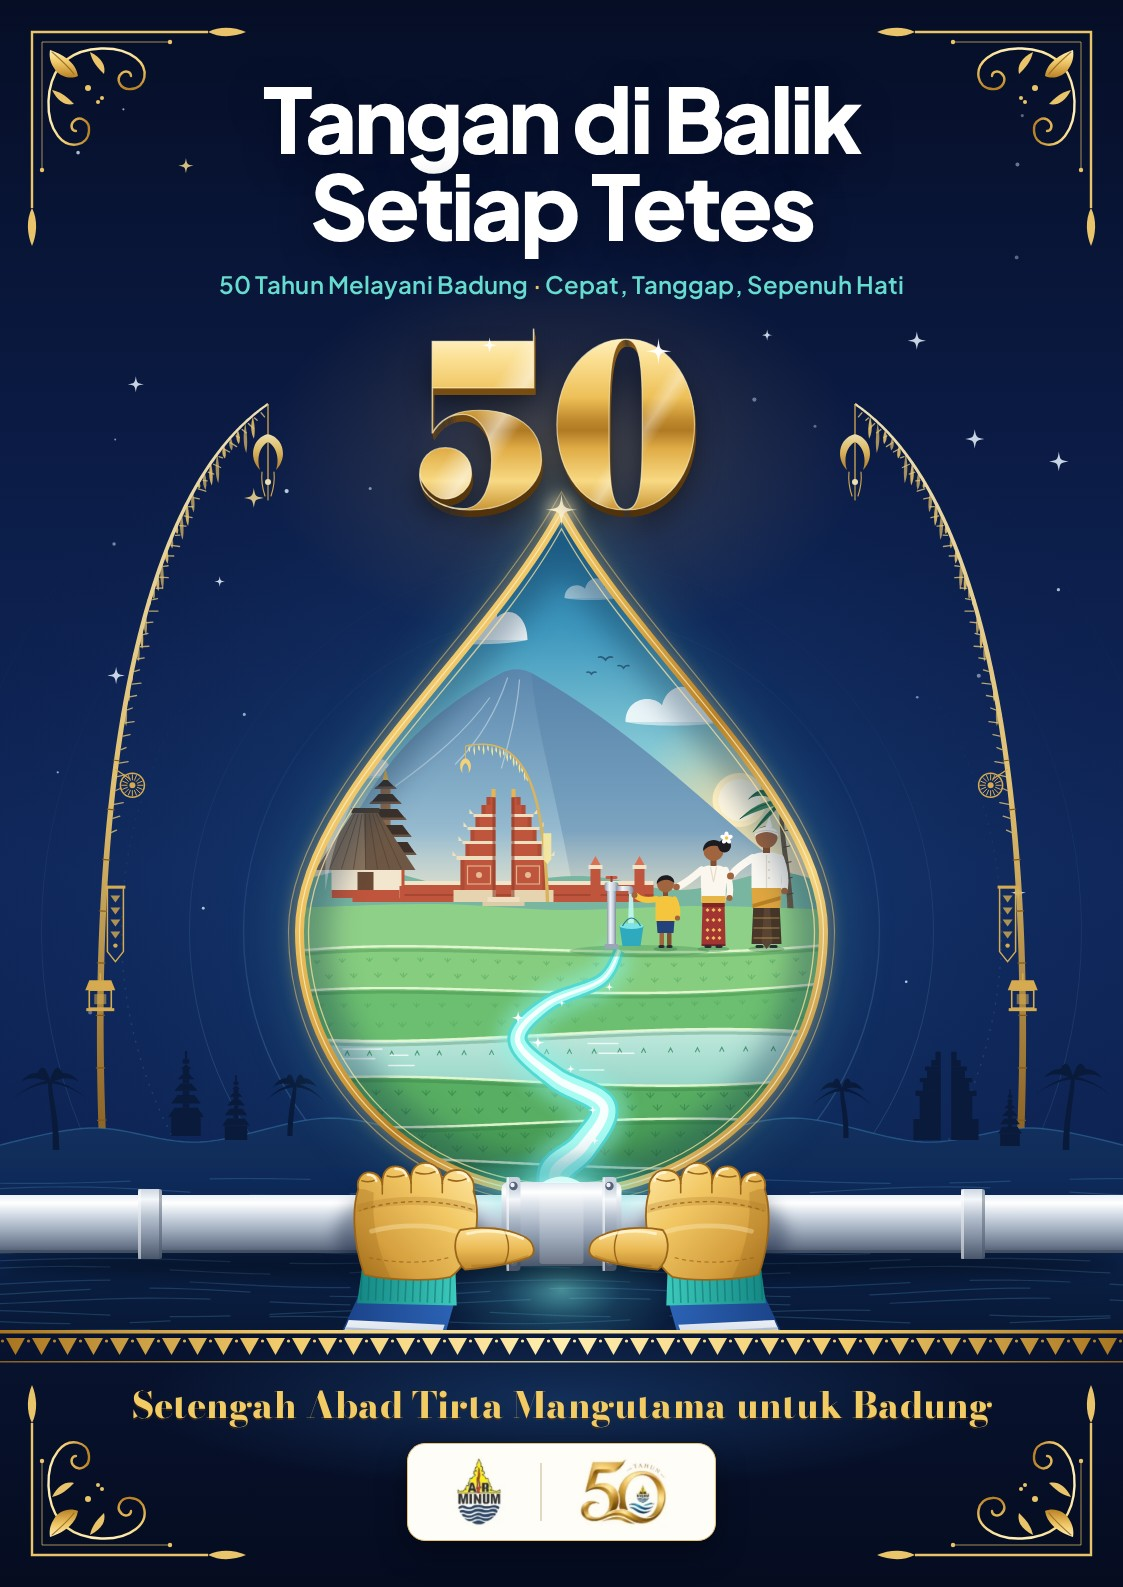
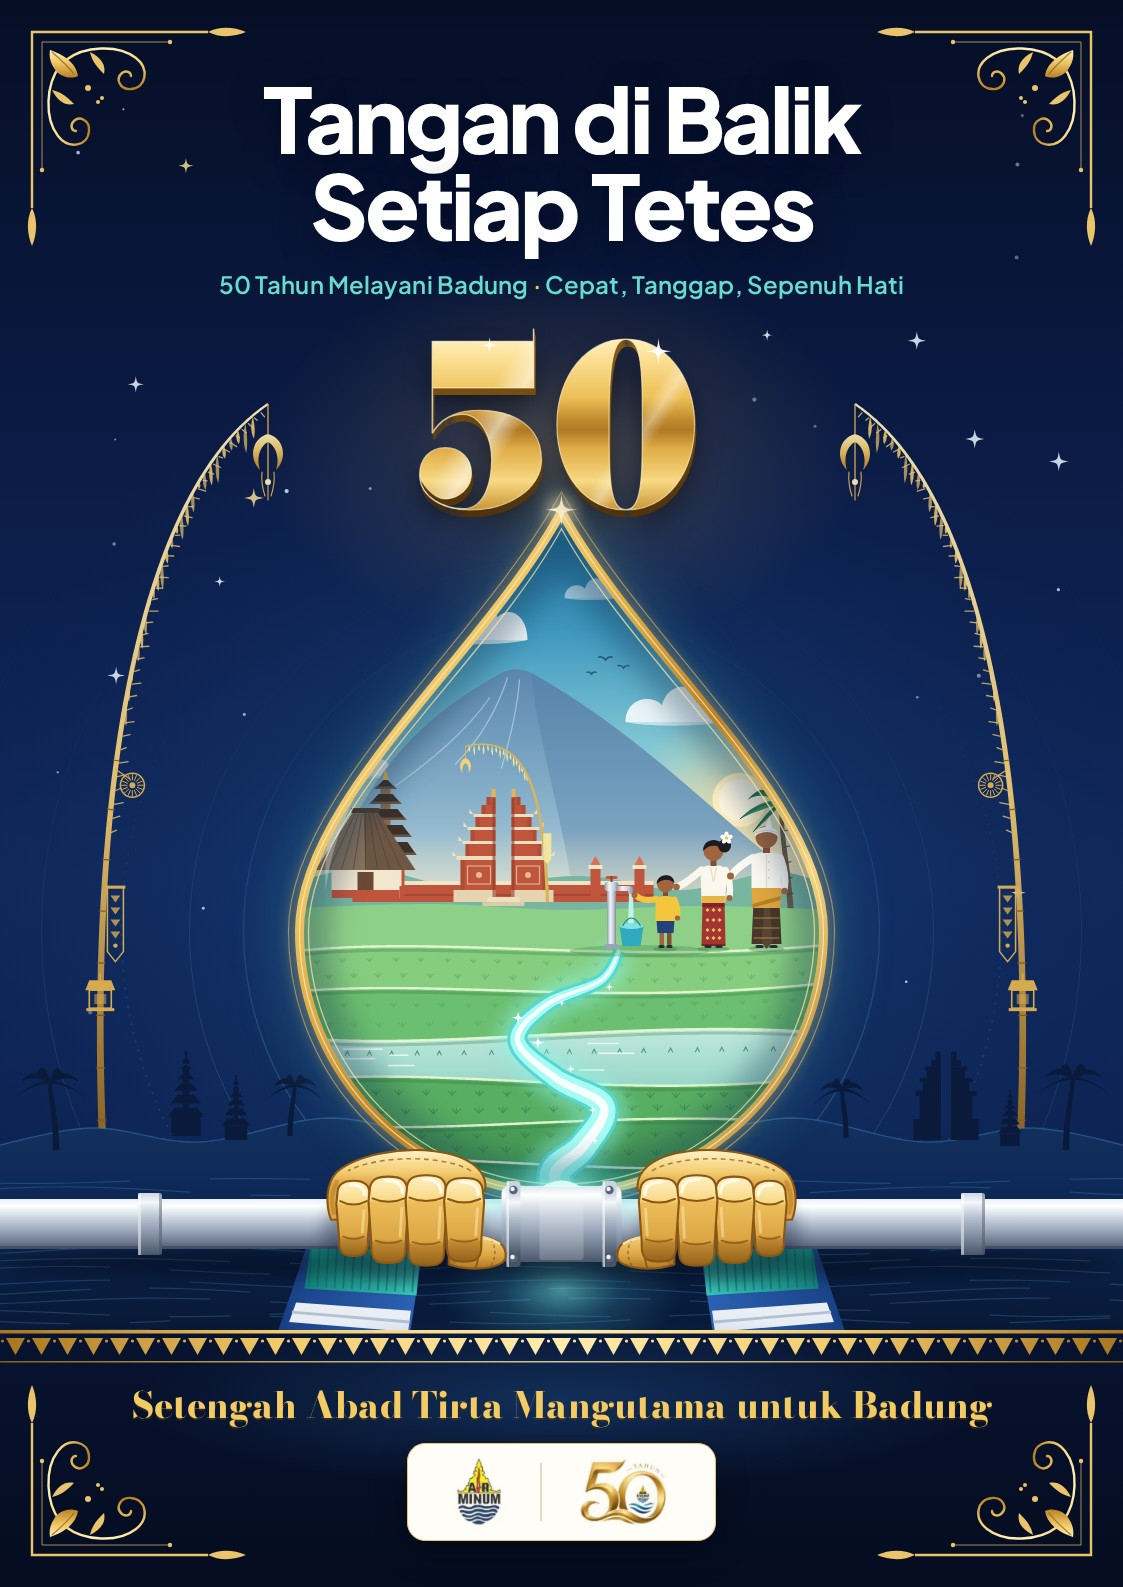
Redraw poster hands as fists gripping the pipe
Follow the grip references: knuckles on top, fingers wrapped over the
front of the pipe in three segments with curved joint lines, thumbs
tucked under toward the coupling, forearms dropping behind the pipe.
The pipe is a little thinner so the fists read at the right scale.

Claude-Session: https://claude.ai/code/session_01WRN3XAMEniDTP2xmXoDQVZ

Changed region(s): [[0.0, 0.7101, 1.0, 0.8645]]

diff --git a/poster-50-tahun/tools/build-art.js b/poster-50-tahun/tools/build-art.js
@@ -80,7 +80,7 @@ lg('gGoldRim', [[0, '#FFF1BE'], [0.3, '#EDC15D'], [0.55, '#B98126'], [0.75, '#F7
 const DROP = { cx: CX, R: 262, bottom: 1193, k: 1.6 };
 DROP.cy = DROP.bottom - DROP.R;          // 931
 DROP.tip = DROP.cy - DROP.k * DROP.R;     // ~512
-const PIPE = { y: 1224, r: 29 };
+const PIPE = { y: 1224, r: 25 };
 const BAND = 1330;
 
 function dropPath(cx, tipY, cy, R) {
@@ -613,8 +613,78 @@ add(`<circle cx="${DROP.cx}" cy="${DROP.tip - 2}" r="14" fill="#FFF1C4" opacity=
   OPT.fiftyBox = bb;
 }
 
+// ================================================================ HANDS
+// Pose after the user's grip references: a fist around the pipe seen from the front (knuckles on top, fingers wrapped
+// toward the viewer in three segments, joint lines following the curve of the fingers, thumb tucked under the pipe),
+// forearm dropping behind the pipe. Defined for the hand right of the coupling (thumb toward -x); the left is mirrored.
+const HAND = { hx: 152, hs: 1.4 };
+function handParts() {
+  const ink = '#8A5714';
+  // ---- forearm, cuff and sleeve (behind the pipe)
+  lg('gCuff', [[0, '#3CCABC'], [1, '#148683']], 0, 0, 1, 0);
+  lg('gSleeve', [[0, '#2C63B6'], [1, '#163A7C']], 0, 0, 1, 0);
+  let arm = `<path d="M-10,16 L72,12 L110,124 L8,132 Z" fill="url(#gSleeve)"/>`;
+  arm += `<path d="M-8,16 L70,12 L75,46 L-5,51 Z" fill="url(#gCuff)"/>`;
+  let ribs = '';
+  for (let i = 0; i <= 12; i++) { const x = lerp(-4, 70, i / 12); ribs += `<line x1="${n(x)}" y1="${n(17 - i * 0.3)}" x2="${n(x + 2)}" y2="${n(49 - i * 0.35)}"/>`; }
+  arm += `<g stroke="#0F6F6B" stroke-width="1.3" opacity="0.55">${ribs}</g>`;
+  arm += `<path d="M-1,62 L81,56 L86,70 L1,77 Z" fill="#E9EEF5"/><path d="M0,70 L84,63" stroke="#B3C1D3" stroke-width="2"/>`;
+
+  // ---- fist (in front of the pipe). In local units the pipe edges sit at ±PR.
+  const PR = PIPE.r / HAND.hs;
+  const f = [];
+  defs.push(`<linearGradient id="gDome" gradientUnits="userSpaceOnUse" x1="0" y1="-52" x2="0" y2="-28"><stop offset="0" stop-color="#FFF0C2"/><stop offset="0.6" stop-color="#F4CE74"/><stop offset="1" stop-color="#DDA544"/></linearGradient>`);
+  defs.push(`<linearGradient id="gThumbF" gradientUnits="userSpaceOnUse" x1="0" y1="${n(PR - 10)}" x2="0" y2="${n(PR + 16)}"><stop offset="0" stop-color="#F7D47E"/><stop offset="0.55" stop-color="#DDA544"/><stop offset="1" stop-color="#A56E1E"/></linearGradient>`);
+  // back of the hand, foreshortened behind the knuckles; its outer edge drops toward the forearm
+  f.push(`<path d="M-54,-24 C-56,-37 -44,-49 -18,-52 C8,-55 38,-49 52,-37 C60,-29 60,-13 56,-3 L44,-3 Z" fill="url(#gDome)" stroke="${ink}" stroke-width="1.5" stroke-linejoin="round"/>`);
+  f.push(`<path d="M-44,-38 C-26,-49 20,-50 44,-38" fill="none" stroke="${ink}" stroke-width="1.1" stroke-dasharray="3.5 2.8" opacity="0.7"/>`);
+  f.push(`<path d="M52,-30 C56,-22 56,-14 54,-8" fill="none" stroke="#9C6718" stroke-width="3" stroke-linecap="round" opacity="0.35"/>`);
+  // thumb tucked under the pipe; its tip shows below the index finger, pointing at the coupling
+  const ty = PR;
+  f.push(`<path d="M-28,${n(ty - 8)} C-40,${n(ty - 11)} -53,${n(ty - 10)} -62,${n(ty - 6)} C-70,${n(ty - 2)} -71,${n(ty + 8)} -64,${n(ty + 11)} C-55,${n(ty + 15)} -40,${n(ty + 15)} -28,${n(ty + 11)} Z" fill="url(#gThumbF)" stroke="${ink}" stroke-width="1.5" stroke-linejoin="round"/>`);
+  f.push(`<path d="M-30,${n(ty - 7)} C-34,${n(ty - 2)} -34,${n(ty + 6)} -30,${n(ty + 10)}" fill="none" stroke="#7A4C12" stroke-width="5" stroke-linecap="round" opacity="0.3"/>`);
+  f.push(`<path d="M-47,${n(ty - 10)} C-50,${n(ty - 4)} -50,${n(ty + 7)} -47,${n(ty + 14)}" fill="none" stroke="${ink}" stroke-width="1.2" stroke-linecap="round"/>`);
+  f.push(`<path d="M-58,${n(ty - 7)} C-62,${n(ty - 2)} -62,${n(ty + 7)} -58,${n(ty + 12)}" fill="none" stroke="${ink}" stroke-width="1" stroke-dasharray="2.4 2" opacity="0.7"/>`);
+  f.push(`<path d="M-34,${n(ty - 8)} C-45,${n(ty - 10)} -56,${n(ty - 9)} -64,${n(ty - 4)}" fill="none" stroke="#FFF1C4" stroke-width="2" stroke-linecap="round" opacity="0.8"/>`);
+  // fingers: top segment over the pipe, middle segment on its face, tip curling under
+  const fingers = [
+    // cx, width, knuckle top, PIP (top/front edge of the pipe), DIP, tip (tucked under the pipe)
+    [40, 23, -PR - 13, -PR + 3.5, PR - 8, PR + 5],   // pinky
+    [15, 27, -PR - 16, -PR + 1.5, PR - 5, PR + 10],  // ring
+    [-12, 28, -PR - 17, -PR + 1, PR - 4, PR + 12],   // middle
+    [-39, 27, -PR - 15, -PR + 2, PR - 6, PR + 9],    // index
+  ];
+  fingers.forEach(([cx, w, top, pip, dip, tip], i) => {
+    const id = 'gFg' + i;
+    const t = (y) => n((y - top) / (tip - top));
+    defs.push(`<linearGradient id="${id}" gradientUnits="userSpaceOnUse" x1="0" y1="${top}" x2="0" y2="${tip}">` +
+      `<stop offset="0" stop-color="#FFF1C6"/><stop offset="${t(pip - 1.5)}" stop-color="#F9DA8A"/>` +
+      `<stop offset="${t(pip + 1)}" stop-color="#EDBE5B"/><stop offset="${t(dip - 1.5)}" stop-color="#DCA544"/>` +
+      `<stop offset="${t(dip + 1)}" stop-color="#C08832"/><stop offset="1" stop-color="#94621A"/></linearGradient>`);
+    const hw = w / 2, tw = hw - 1.2, rt = hw * 0.8, rb = tw * 0.9;
+    // rounded-rectangle column, a touch wider at the PIP knuckle
+    const d = `M${n(cx - hw)},${n(top + rt)} C${n(cx - hw)},${n(top + 2)} ${n(cx - hw + 5)},${n(top)} ${n(cx)},${n(top)} C${n(cx + hw - 5)},${n(top)} ${n(cx + hw)},${n(top + 2)} ${n(cx + hw)},${n(top + rt)} ` +
+      `L${n(cx + hw + 0.8)},${n(pip)} L${n(cx + tw)},${n(dip)} L${n(cx + tw)},${n(tip - rb)} ` +
+      `C${n(cx + tw)},${n(tip - 1)} ${n(cx + tw - 5)},${n(tip)} ${n(cx)},${n(tip)} C${n(cx - tw + 5)},${n(tip)} ${n(cx - tw)},${n(tip - 1)} ${n(cx - tw)},${n(tip - rb)} ` +
+      `L${n(cx - tw)},${n(dip)} L${n(cx - hw - 0.8)},${n(pip)} Z`;
+    f.push(`<path d="${d}" fill="url(#${id})" stroke="${ink}" stroke-width="1.5" stroke-linejoin="round"/>`);
+    // joint creases follow each finger's curve, so across the fist they form an arc rather than parallel lines
+    f.push(`<path d="M${n(cx - hw + 2)},${n(pip - 2)} Q${n(cx)},${n(pip + 3)} ${n(cx + hw - 2)},${n(pip - 2)}" fill="none" stroke="${ink}" stroke-width="1.4" stroke-linecap="round"/>`);
+    f.push(`<path d="M${n(cx - tw + 3)},${n(dip - 1)} Q${n(cx)},${n(dip + 2.5)} ${n(cx + tw - 3)},${n(dip - 1)}" fill="none" stroke="${ink}" stroke-width="1.2" stroke-linecap="round" opacity="0.8"/>`);
+    // light on the knuckle and along the top plane
+    f.push(`<path d="M${n(cx - hw + 3.5)},${n(top + rt + 1)} C${n(cx - hw + 3.5)},${n(top + 4)} ${n(cx - 3)},${n(top + 2.8)} ${n(cx + 2)},${n(top + 2.8)}" fill="none" stroke="#FFFBEA" stroke-width="2.4" stroke-linecap="round" opacity="0.95"/>`);
+    f.push(`<path d="M${n(cx - hw + 4)},${n(pip + 5)} L${n(cx - tw + 4)},${n(dip - 4)}" stroke="#FFF1C4" stroke-width="2" stroke-linecap="round" opacity="0.45"/>`);
+  });
+  return { arm, fist: f.join('') };
+}
+const HANDPARTS = handParts();
+
 // ================================================================ PIPE + COUPLING
 {
+  // forearms reach up behind the pipe
+  add(`<g clip-path="url(#cAboveBand)">` +
+    `<g transform="translate(${n(CX + HAND.hx)},${PIPE.y}) scale(${HAND.hs})">${HANDPARTS.arm}</g>` +
+    `<g transform="translate(${n(CX - HAND.hx)},${PIPE.y}) scale(${-HAND.hs},${HAND.hs})">${HANDPARTS.arm}</g></g>`);
   const y0 = PIPE.y - PIPE.r, h = PIPE.r * 2;
   add(`<ellipse cx="${CX}" cy="${PIPE.y + 40}" rx="560" ry="16" fill="#000" opacity="0.35" filter="url(#b8)"/>`);
   defs.push(`<linearGradient id="gPipe" gradientUnits="userSpaceOnUse" x1="0" y1="${y0}" x2="0" y2="${y0 + h}"><stop offset="0" stop-color="#E9F0F7"/><stop offset="0.14" stop-color="#FFFFFF"/><stop offset="0.34" stop-color="#D3DCE6"/><stop offset="0.62" stop-color="#9DAABB"/><stop offset="0.86" stop-color="#6D7A8F"/><stop offset="1" stop-color="#4D596C"/></linearGradient>`);
@@ -637,62 +707,15 @@ add(`<circle cx="${DROP.cx}" cy="${DROP.tip - 2}" r="14" fill="#FFF1C4" opacity=
   add(`<path d="M${CX - 20},${ct + 1} Q${CX},${ct - 12} ${CX + 20},${ct + 1} Z" fill="#DFFFFB" opacity="0.9"/>`);
 }
 
-// ================================================================ HANDS
-function glovedHand() {
-  // right hand seen from behind (POV grip): fingers curl over the pipe, the thumb wraps under it toward the coupling.
-  // local coords: origin on the pipe axis at the hand's centre
-  const g = [];
-  defs.push(`<linearGradient id="gGlove" gradientUnits="userSpaceOnUse" x1="-50" y1="-50" x2="50" y2="48"><stop offset="0" stop-color="#FFE9A8"/><stop offset="0.35" stop-color="#F2C865"/><stop offset="0.75" stop-color="#D59F3E"/><stop offset="1" stop-color="#A9721F"/></linearGradient>`);
-  defs.push(`<linearGradient id="gThumb" gradientUnits="userSpaceOnUse" x1="0" y1="0" x2="0" y2="42"><stop offset="0" stop-color="#FFE6A0"/><stop offset="0.5" stop-color="#EBBA55"/><stop offset="1" stop-color="#B27A22"/></linearGradient>`);
-  lg('gCuff', [[0, '#3CCABC'], [1, '#148683']], 0, 0, 1, 0);
-  lg('gSleeve', [[0, '#2C63B6'], [1, '#163A7C']], 0, 0, 1, 0);
-  const ink = '#9A661B';
-  // sleeve (forearm) going down and outward
-  g.push(`<path d="M-30,62 L50,58 L88,140 L-6,146 Z" fill="url(#gSleeve)"/>`);
-  g.push(`<path d="M-21,84 L59,80 L65,94 L-16,98 Z" fill="#E9EEF5"/><path d="M-19,91 L62,87" stroke="#B3C1D3" stroke-width="2"/>`);
-  // knit cuff
-  g.push(`<path d="M-30,40 L48,38 L52,66 L-31,68 Z" fill="url(#gCuff)"/>`);
-  let ribs = '';
-  for (let i = 0; i <= 12; i++) { const x = lerp(-26, 48, i / 12); ribs += `<line x1="${n(x)}" y1="${n(41 - i * 0.2)}" x2="${n(x + 1)}" y2="${n(66 - i * 0.2)}"/>`; }
-  g.push(`<g stroke="#0F6F6B" stroke-width="1.3" opacity="0.55">${ribs}</g>`);
-  // hand silhouette: back of the hand + four finger segments curled over the pipe
-  const hand = 'M-26,44 C-40,34 -48,12 -48,-6 C-48,-16 -47,-22 -45,-27 ' +
-    'C-47,-38 -39,-45 -31,-45 C-24,-45 -19,-40 -19,-34 ' +
-    'C-19,-45 -12,-51 -5,-51 C3,-51 8,-45 7,-34 ' +
-    'C8,-44 14,-48 20,-48 C27,-48 31,-43 31,-33 ' +
-    'C32,-40 37,-43 42,-43 C48,-43 53,-37 51,-29 ' +
-    'C56,-14 56,14 46,42 C30,47 -10,48 -26,44 Z';
-  g.push(`<path d="${hand}" fill="url(#gGlove)" stroke="${ink}" stroke-width="1.5" stroke-linejoin="round"/>`);
-  // shading on the pinky side and under the knuckles
-  g.push(`<path d="M51,-29 C56,-14 56,14 46,42 C38,44 30,45 24,45 C36,20 40,-6 38,-26 C42,-28 47,-30 51,-29 Z" fill="#9C6718" opacity="0.28"/>`);
-  g.push(`<path d="M-46,-16 C-18,-25 24,-25 52,-16 L52,-10 C24,-18 -18,-18 -47,-9 Z" fill="#A87020" opacity="0.25"/>`);
-  // finger separations + joint creases + highlights
-  g.push(`<g fill="none" stroke="${ink}" stroke-width="1.3" stroke-linecap="round">` +
-    `<path d="M-19,-34 L-19,-26"/><path d="M7,-34 L7,-26"/><path d="M31,-33 L31,-25"/>` +
-    `<path d="M-40,-38 Q-32,-34 -24,-37"/><path d="M-14,-44 Q-5,-40 3,-43"/><path d="M12,-41 Q20,-38 27,-40"/><path d="M36,-37 Q42,-34 48,-36"/>` +
-    `</g>`);
-  g.push(`<g fill="none" stroke="#FFF7DC" stroke-width="2.2" stroke-linecap="round" opacity="0.85">` +
-    `<path d="M-41,-36 C-40,-41 -36,-43 -32,-43"/><path d="M-15,-43 C-13,-48 -9,-49 -5,-49"/><path d="M11,-40 C12,-45 16,-46 20,-46"/><path d="M36,-36 C37,-40 40,-41 43,-41"/>` +
-    `</g>`);
-  // glove seam across the knuckles + wrist tab
-  g.push(`<path d="M-44,-12 C-16,-21 22,-21 50,-11" fill="none" stroke="${ink}" stroke-width="1.1" stroke-dasharray="3.5 2.8" opacity="0.85"/>`);
-  g.push(`<path d="M-30,6 C-10,0 18,0 40,6" fill="none" stroke="#FFF1C4" stroke-width="4" stroke-linecap="round" opacity="0.35"/>`);
-  g.push(`<path d="M-24,28 C-6,33 20,33 42,28" fill="none" stroke="${ink}" stroke-width="1.1" stroke-dasharray="3.5 2.8" opacity="0.7"/>`);
-  // thumb wrapping under the pipe toward the coupling
-  g.push(`<path d="M-34,5 C-54,1 -73,4 -86,10 C-96,14 -98,25 -91,28 C-78,33 -59,36 -38,38 C-29,31 -27,14 -34,5 Z" fill="url(#gThumb)" stroke="${ink}" stroke-width="1.5" stroke-linejoin="round"/>`);
-  g.push(`<path d="M-71,6 C-75,15 -75,25 -71,33" fill="none" stroke="${ink}" stroke-width="1.2" stroke-linecap="round"/>`);
-  g.push(`<path d="M-40,8 C-56,4 -73,6 -86,12" fill="none" stroke="#FFF6D6" stroke-width="2.4" stroke-linecap="round" opacity="0.8"/>`);
-  g.push(`<path d="M-44,35 C-60,35 -77,32 -90,27" fill="none" stroke="#9C6718" stroke-width="2" stroke-linecap="round" opacity="0.35"/>`);
-  return g.join('');
-}
+
+// fists gripping the pipe on both sides of the coupling
 {
-  const hand = glovedHand();
-  const hx = 142, hs = 1.2;
+  const { hx, hs } = HAND;
   add(`<g clip-path="url(#cAboveBand)">` +
-    `<ellipse cx="${n(CX + hx + 10)}" cy="${PIPE.y + 12}" rx="74" ry="48" fill="#0A1633" opacity="0.35" filter="url(#b8)"/>` +
-    `<ellipse cx="${n(CX - hx - 10)}" cy="${PIPE.y + 12}" rx="74" ry="48" fill="#0A1633" opacity="0.35" filter="url(#b8)"/>` +
-    `<g transform="translate(${n(CX + hx)},${PIPE.y}) scale(${hs})">${hand}</g>` +
-    `<g transform="translate(${n(CX - hx)},${PIPE.y}) scale(${-hs},${hs})">${hand}</g>` +
+    `<ellipse cx="${n(CX + hx + 6)}" cy="${PIPE.y + 10}" rx="${n(58 * hs)}" ry="${n(34 * hs)}" fill="#0A1633" opacity="0.32" filter="url(#b8)"/>` +
+    `<ellipse cx="${n(CX - hx - 6)}" cy="${PIPE.y + 10}" rx="${n(58 * hs)}" ry="${n(34 * hs)}" fill="#0A1633" opacity="0.32" filter="url(#b8)"/>` +
+    `<g transform="translate(${n(CX + hx)},${PIPE.y}) scale(${hs})">${HANDPARTS.fist}</g>` +
+    `<g transform="translate(${n(CX - hx)},${PIPE.y}) scale(${-hs},${hs})">${HANDPARTS.fist}</g>` +
     `</g>`);
 }
 

diff --git a/poster-50-tahun/poster.html b/poster-50-tahun/poster.html
@@ -10,7 +10,7 @@ body{margin:0;background:#081636}
 </head>
 <body>
 <div style="position: relative; width: 1123px; height: 1587px; overflow: hidden; background: #081636; font-family: 'Plus Jakarta Sans', system-ui, sans-serif;">
-<img src="poster-art.svg" alt="Tetes air berisi pemandangan Badung di atas pipa yang dipegang tangan petugas, diapit dua penjor emas" style="position: absolute; left: 0; top: 0; width: 1123px; height: 1587px; display: block;">
+<img src="poster-art.svg" alt="Tetes air berisi pemandangan Badung di atas pipa yang digenggam kedua tangan petugas, diapit dua penjor emas" style="position: absolute; left: 0; top: 0; width: 1123px; height: 1587px; display: block;">
 <div style="position: absolute; left: 0; top: 74px; width: 1123px; box-sizing: border-box; padding: 0 150px; display: flex; flex-direction: column; align-items: center; gap: 20px;">
 <h1 style="margin: 0; font-size: 90px; line-height: 0.97; font-weight: 800; letter-spacing: -0.035em; color: #FFFFFF; text-align: center; text-shadow: 0 8px 32px rgba(2, 8, 28, 0.55);">Tangan di Balik<br>Setiap Tetes</h1>
 <p style="margin: 0; font-size: 24px; line-height: 1.3; font-weight: 600; letter-spacing: 0.005em; color: #66DCCF; text-align: center;">50 Tahun Melayani Badung <span style="color: #E9C46A;">·</span> Cepat, Tanggap, Sepenuh Hati</p>
